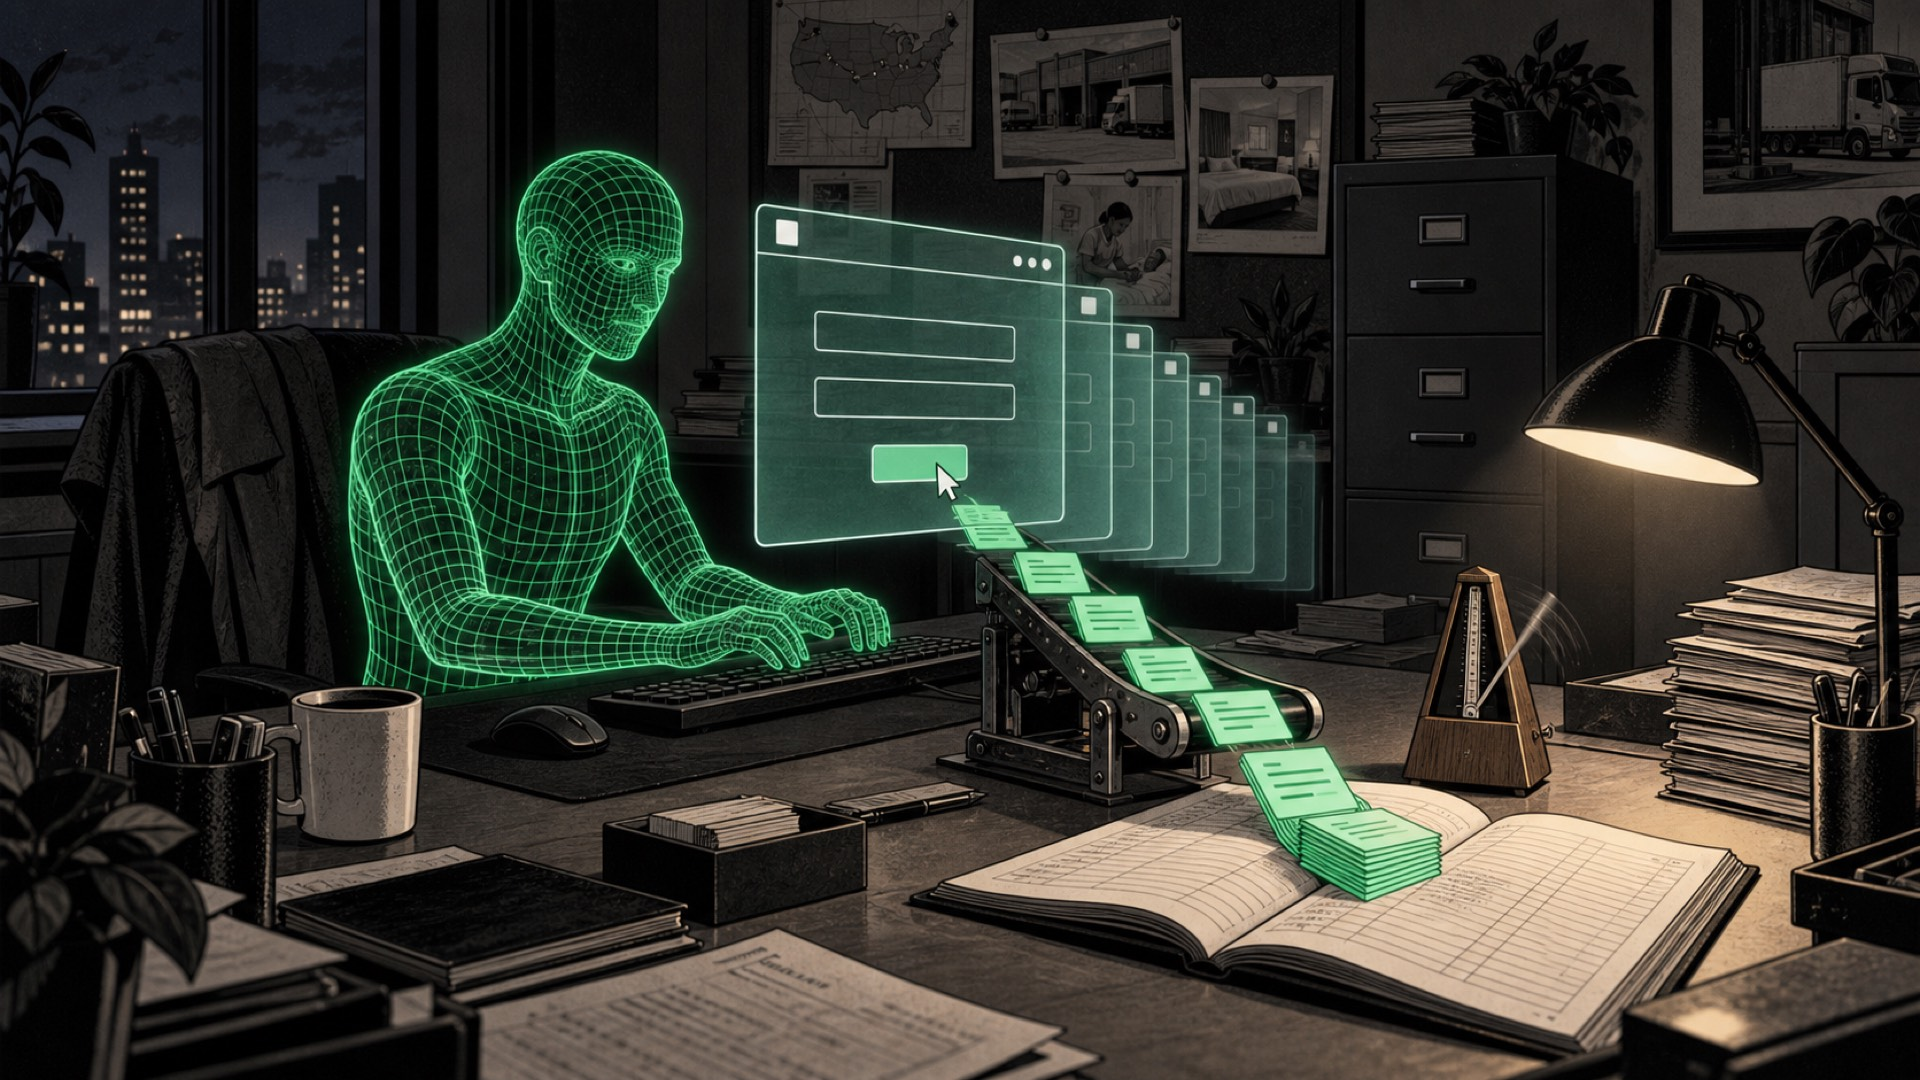
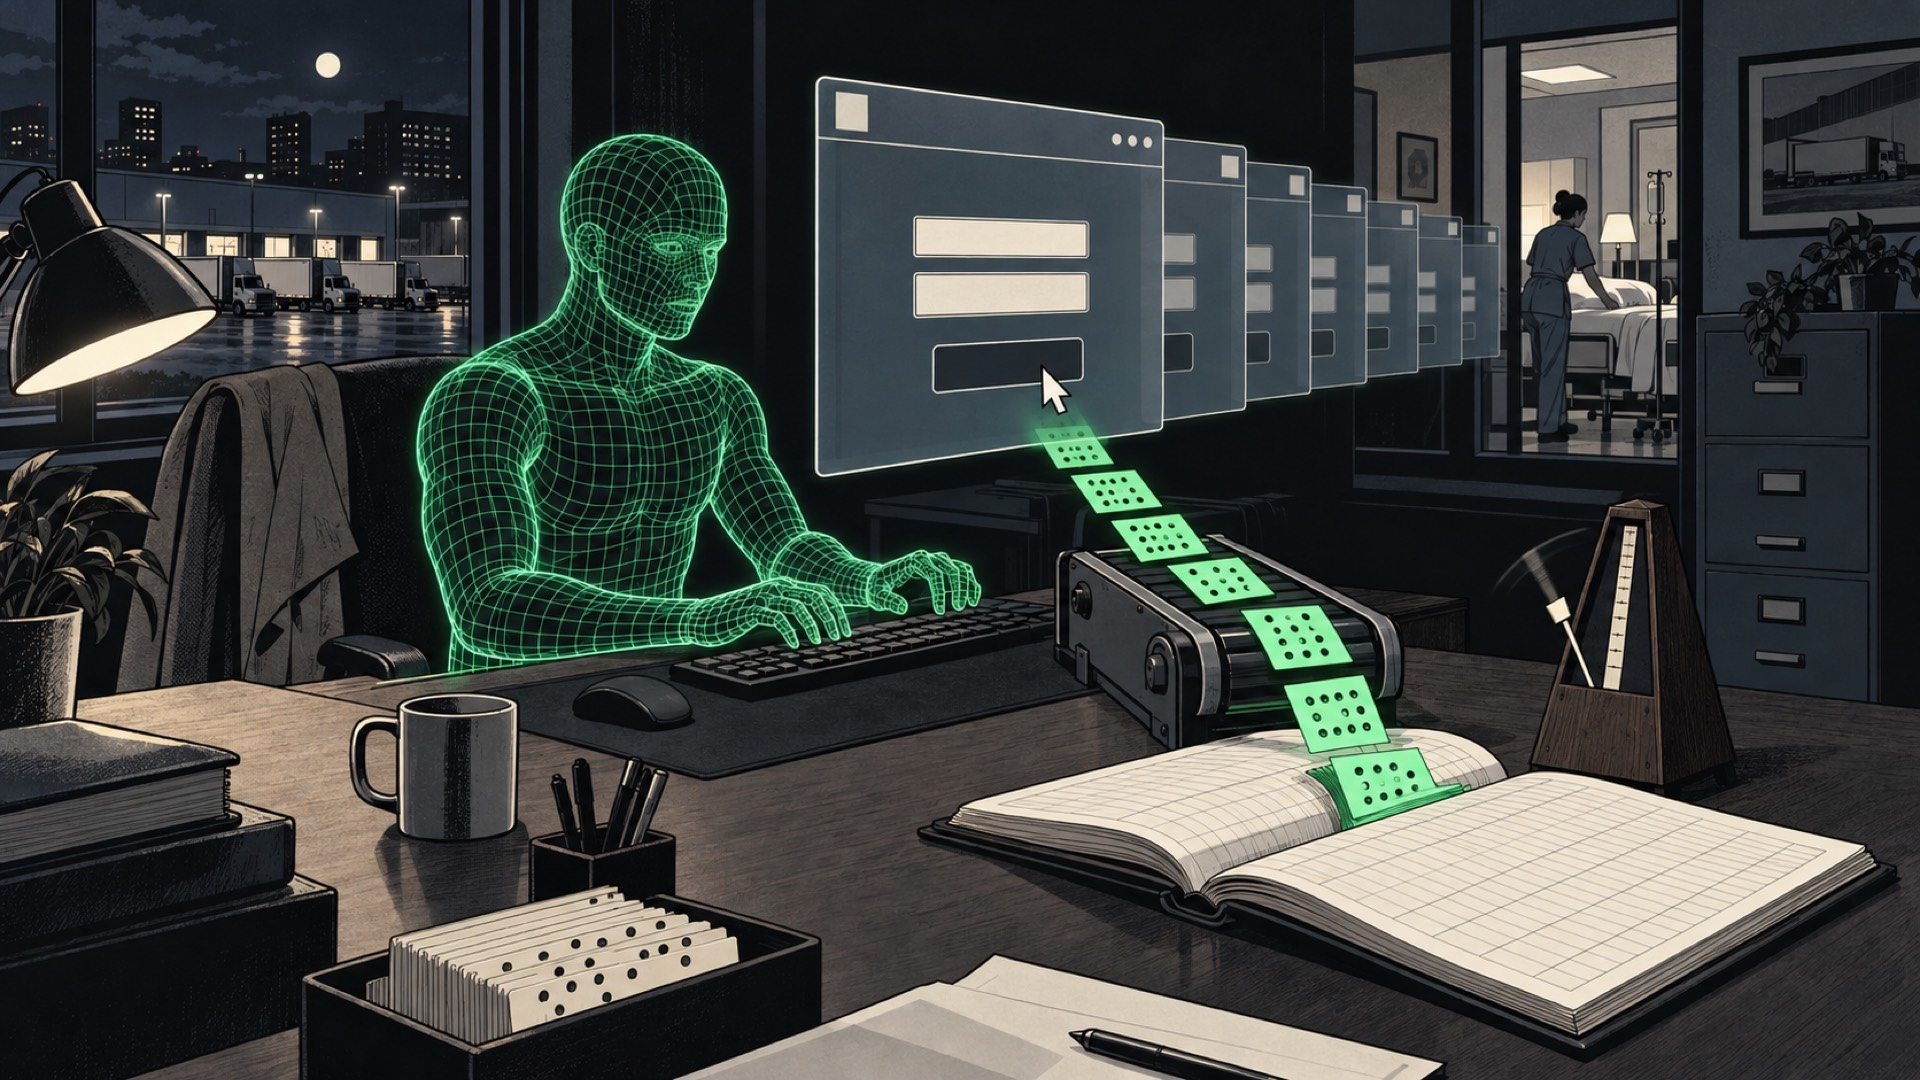
story: business story + six-beat product story (18 slides) — ingest, live location, SMS/phone timekeeping, rules, agentic mediation, agentic payroll upload
Claude-Session: https://claude.ai/code/session_01WeFBVZdtUQHxNr4TKy9Cv4

diff --git a/story/index.html b/story/index.html
@@ -10,12 +10,12 @@
   <link rel="preconnect" href="https://fonts.googleapis.com">
   <link rel="preconnect" href="https://fonts.gstatic.com" crossorigin>
   <link href="https://fonts.googleapis.com/css2?family=Space+Grotesk:wght@500;700&family=Inter:wght@400;500&display=swap" rel="stylesheet">
-  <link rel="stylesheet" href="deck.css?v=5">
+  <link rel="stylesheet" href="deck.css?v=6">
 </head>
 <body>
   <header class="chrome">
     <a class="brand" href="../"><img src="../logo-small.svg" alt="">HyperTrack</a>
-    <span class="counter"><span id="cur">01</span> / <span id="tot">21</span></span>
+    <span class="counter"><span id="cur">01</span> / <span id="tot">18</span></span>
   </header>
 
   <main class="deck" id="deck">
@@ -130,83 +130,56 @@
 
 
     <section class="slide">
-      <figure class="frame" data-label="13-two-questions"><img src="assets/13-two-questions.jpg" alt="A shift card between a pay envelope and a customer invoice"></figure>
-      <div class="copy">
-        <p class="eyebrow">13 · Payroll ops</p>
-        <h1>Every shift has to answer two questions.</h1>
-        <p>How much do I pay the worker? How much do I bill the customer? Every shift, every week, before the cutoff.</p>
-      </div>
-    </section>
-
-    <section class="slide">
-      <figure class="frame" data-label="14-three-clocks"><img src="assets/14-three-clocks.jpg" alt="Three panels: a badge kiosk, a phone clock-in, a GPS trail, each with a different time"></figure>
-      <div class="copy">
-        <p class="eyebrow">14 · Payroll ops</p>
-        <h1>The answer comes from three sources that disagree.</h1>
-        <p>The customer's clock or clipboard. The app the worker clocks in on. The phone's location. They arrive at different times and rarely say the same thing.</p>
-      </div>
-    </section>
-
-    <section class="slide">
       <figure class="frame" data-label="20-digital-worker"><img src="assets/20-digital-worker.jpg" alt="A wireframe digital worker logging into a holographic browser window, data flowing out on a cadence, more windows ghosted behind"><div class="logos"><img src="../logos/tiles/ukg.png" alt="ukg"><img src="../logos/tiles/adp.png" alt="adp"><img src="../logos/tiles/ubeya.png" alt="ubeya"><img src="../logos/tiles/7shifts.png" alt="7shifts"><img src="../logos/tiles/paylocity.png" alt="paylocity"><img src="../logos/tiles/deputy.png" alt="deputy"><img src="../logos/tiles/tempworks.png" alt="tempworks"><img src="../logos/tiles/avionte.png" alt="avionte"><img src="../logos/tiles/rippling.png" alt="rippling"><img src="../logos/tiles/wheniwork.png" alt="wheniwork"></div></figure>
       <div class="copy">
-        <p class="eyebrow">15 · Payroll ops</p>
-        <h1>Onboard it like a digital worker.</h1>
-        <p>It logs into UKG the way a person would, in a virtual browser, and pulls the punches out on a cadence. No integration project. Same for ADP, Ubeya, 7shifts, Paylocity and the rest.</p>
+        <p class="eyebrow">13 · Product</p>
+        <h1>Data auto-ingests, with AI.</h1>
+        <p>A digital worker logs into UKG, ADP, Ubeya, 7shifts or whatever your sites already run, in a virtual browser, and pulls punches and schedules out on a cadence. No integration project.</p>
       </div>
     </section>
 
     <section class="slide">
-      <figure class="frame" data-label="15-rulebook-in-heads"><img src="assets/15-rulebook-in-heads.jpg" alt="Payroll clerk surrounded by binders and sticky notes, reciting rules from memory"></figure>
+      <figure class="frame" data-label="22-live-map"><img src="assets/22-live-map.jpg" alt="Ops room wall map with geofenced facilities and live worker dots"></figure>
       <div class="copy">
-        <p class="eyebrow">16 · Payroll ops</p>
-        <h1>The rulebook lives in people's heads.</h1>
-        <p>State law, city ordinances, client contracts, facility quirks, this week's exceptions. Your best payroll person carries it all. When they leave, it leaves with them.</p>
+        <p class="eyebrow">14 · Product</p>
+        <h1>Location is tracked in real time.</h1>
+        <p>Every worker's phone reports where they actually are. Arrivals, departures and gaps show up on the map while the shift is happening, not at the end of the week.</p>
       </div>
     </section>
 
     <section class="slide">
-      <figure class="frame" data-label="16-compile"><img src="assets/16-compile.jpg" alt="Binders fed into a compiler machine that stamps a strip of shift cards"></figure>
+      <figure class="frame" data-label="23-paper-to-sms"><img src="assets/23-paper-to-sms.jpg" alt="Worker photographing a paper timesheet into a text; nurse taking a call from the agent"></figure>
       <div class="copy">
-        <p class="eyebrow">17 · Payroll ops</p>
-        <h1>Compile the rulebook once. Run it on every shift.</h1>
-        <p>Each rule is written in plain English, compiled once into a deterministic check, and applied to every shift before payroll runs. No prompting, no guessing.</p>
+        <p class="eyebrow">15 · Product</p>
+        <h1>Paper timesheets come in by text. Clock-ins by text and phone call.</h1>
+        <p>A photo of the clipboard is enough. When a punch is missing, the agent texts or calls the worker and takes the answer. No app to install, nothing for a clerk to key in.</p>
       </div>
     </section>
 
     <section class="slide">
       <figure class="frame" data-label="21-flag-to-formula"><img src="assets/21-flag-to-formula.jpg" alt="Three panels: a flagged shift card, a highlighted clause in a wage order, and the compiled rule on a chalkboard"></figure>
       <div class="copy">
-        <p class="eyebrow">18 · Payroll ops</p>
-        <h1>Every flag traces to a clause. Every clause becomes a rule.</h1>
-        <p>The agent raises the flag. The flag points at one paragraph in the wage order. That paragraph is compiled into one line the engine runs on every shift.</p>
+        <p class="eyebrow">16 · Product</p>
+        <h1>Payroll rules are applied to every shift.</h1>
+        <p>The agent raises the flag. The flag points at one paragraph in the wage order or the client contract. That paragraph is compiled into one line the engine runs on every shift.</p>
       </div>
     </section>
 
     <section class="slide">
       <figure class="frame" data-label="17-agent-conversation"><img src="assets/17-agent-conversation.jpg" alt="Worker on a loading dock answering a text while a flagged shift resolves"></figure>
       <div class="copy">
-        <p class="eyebrow">19 · Payroll ops</p>
-        <h1>The agent asks the worker, not the clerk.</h1>
-        <p>When a shift is missing a fact, the agent texts the person who has it while it is still fresh. The exception closes before anyone in the middle office sees it.</p>
+        <p class="eyebrow">17 · Product</p>
+        <h1>Discrepancies are mediated agentically.</h1>
+        <p>A disputed break, an extra hour, a missing clock-out. The agent takes it to the worker and the supervisor while it is fresh, collects the answers and closes it out with the evidence attached.</p>
       </div>
     </section>
 
     <section class="slide">
-      <figure class="frame" data-label="18-human-queue"><img src="assets/18-human-queue.jpg" alt="Calm ops desk with three shift cards and a recycling bin full of paper timesheets"></figure>
+      <figure class="frame" data-label="24-upload"><img src="assets/24-upload.jpg" alt="The wireframe digital worker feeding stamped shift cards into a holographic payroll window at dawn"><div class="logos"><img src="../logos/tiles/adp.png" alt="adp"><img src="../logos/tiles/paylocity.png" alt="paylocity"><img src="../logos/tiles/gusto.png" alt="gusto"><img src="../logos/tiles/paychex.png" alt="paychex"><img src="../logos/tiles/rippling.png" alt="rippling"><img src="../logos/tiles/quickbooks.png" alt="quickbooks"></div></figure>
       <div class="copy">
-        <p class="eyebrow">20 · Payroll ops</p>
-        <h1>Humans handle only what needs a human.</h1>
-        <p>Clean shifts go out on time. Flagged ones arrive with the rule, the evidence and the dollar delta already attached.</p>
-      </div>
-    </section>
-
-    <section class="slide">
-      <figure class="frame" data-label="19-receipt"><img src="assets/19-receipt.jpg" alt="Evidence board with a pay stub connected by string to clock, map, clause and messages"></figure>
-      <div class="copy">
-        <p class="eyebrow">21 · The end state</p>
-        <h1>Every decision shows its work.</h1>
-        <p>Clock, location, clause, conversation, approval. Pinned to every payout and every invoice line. Pay right the first cycle, and the flywheel turns the right way.</p>
+        <p class="eyebrow">18 · Product</p>
+        <h1>Then it goes to payroll. As fast as possible, agentically.</h1>
+        <p>The same digital worker logs into ADP, Paylocity or Gusto and uploads the approved hours through the browser the moment the cycle closes. Held shifts wait with their reason. Everyone else gets paid right, on time.</p>
       </div>
     </section>
 
@@ -216,6 +189,6 @@
     <button type="button" id="prev" aria-label="Previous">←</button>
     <button type="button" id="next" aria-label="Next">→</button>
   </nav>
-  <script src="deck.js?v=5"></script>
+  <script src="deck.js?v=6"></script>
 </body>
 </html>

diff --git a/story/STORYBOARD.md b/story/STORYBOARD.md
@@ -74,3 +74,14 @@ Night in a quiet operations office, one desk lamp, a real keyboard and mouse on 
 
 ### 21 · flag-to-formula — "Every flag traces to a clause, and every clause becomes a rule."
 One frame split into three vertical panels like a comic strip, read left to right. Panel one: a single shift card on a desk with a small mailbox-style flag raised on its corner, a translucent green wireframe hand has just lifted the flag; a coffee mug and a pen nearby. Panel two: a thick legal document, a wage order, lying open under a magnifying glass; one paragraph is marked with a broad green highlighter stroke, the rest of the page is dense blurred text-texture that is not legible. Panel three: a dark chalkboard on an office wall with one short compiled rule written neatly in white chalk in a clean monospace hand, exactly this and nothing else: "IF hours > 5 AND meal < 30min → +1h premium". A hand holding chalk finishes the last character. The chalkboard rule and the highlighter stroke are the only green in the frame. Text is allowed ONLY on the chalkboard; nowhere else.
+
+## Product story (six beats after the business story)
+
+### 22 · live-map — "Location is tracked in real time."
+An operations room at dawn. The whole back wall is one large dark screen showing a metro-region map drawn as a precise technical overlay: roads as thin lines, five facility footprints each ringed by a glowing geofence circle with tick marks. Small worker dots sit inside the rings or approach them along short motion trails; one dot just outside a ring carries a tiny raised flag. In the foreground an ops person with a coffee glances up at the wall from a desk with two monitors and a phone showing a single location pin. Blinds, morning light, plants. Only the geofence rings, the worker dots and the trails are green.
+
+### 23 · paper-to-sms — "Paper timesheets come in by text. Clock-ins by text and phone call."
+One frame split into two panels. Left panel: a warehouse worker at a break-room table photographs a paper timesheet on a clipboard with her phone; the image of the sheet lifts off the paper as a glowing translucent card rising into an abstract text-message bubble above the phone, no words. Vending machine, lockers, a microwave behind her. Right panel: a nurse in scrubs in a hospital corridor answers a phone call; hovering above the phone is a small translucent green wireframe figure, the agent on the line, with an abstract speech bubble holding a check mark; beside it an abstract text thread of two blank bubbles. Only the lifted timesheet card, the wireframe agent and the check mark are green.
+
+### 24 · upload — "Then it goes to payroll. As fast as possible, agentically."
+The same operations office as the digital-worker frame, now at dawn with light coming through the window. The translucent green wireframe digital worker sits at the real keyboard again, but this time a conveyor carries a neat stack of stamped shift cards from a closed ledger on the desk INTO a large holographic browser window that shows an abstract payroll table: blank rows and columns, one button, no words. A second ghosted window waits behind it. A stopwatch stands on the desk beside the ledger, its needle sweeping. The clerk's chair beside it is empty with a coat still on it. Only the wireframe figure, the cards on the conveyor and the button are green.

diff --git a/story/README.md b/story/README.md
@@ -1,6 +1,6 @@
 # Protect your revenue — middle-office storyboard deck
 
-Twenty-one slides, all illustrated storyboard frames in one language. No UI screenshots, no close slide. Narrative: tech-enabled staffing firms deploy AI faster; AI has done recruiting and matching, the middle office (pay and bill) is next; workers and customers both re-choose you every day, so pay accuracy is revenue protection (frames 01–12). Then the payroll-ops AI story: two questions per shift, three sources that disagree, the rulebook in people's heads, compile it once, the agent asks the worker, humans handle only what needs a human, every decision shows its work (frames 13–19). The product is abstracted into the same language: onboarding a system like a digital worker (virtual browser login, data pulled on a cadence, real vendor tiles from `logos/tiles/` overlaid), and flag → clause → compiled rule as one triptych. It ends on "every decision shows its work."
+Eighteen slides, all illustrated storyboard frames in one language. No UI screenshots, no close slide. Narrative: tech-enabled staffing firms deploy AI faster; AI has done recruiting and matching, the middle office (pay and bill) is next; workers and customers both re-choose you every day, so pay accuracy is revenue protection (frames 01–12). Then the product story in six beats (slides 13–18): data auto-ingests with a digital worker in a virtual browser (real vendor tiles from `logos/tiles/` overlaid), location tracked in real time, paper timesheets and clock-ins by SMS and phone call, payroll rules applied (flag → clause → compiled rule), discrepancies mediated agentically, then uploaded to payroll agentically through the browser. 
 
 Live at https://closeoutcopilot.com/story/. Locally, serve from the repo root so the shared logo and hero sprites load:
 
@@ -12,5 +12,5 @@ Open http://127.0.0.1:4177/story/ — keys: arrows / space / backspace, Home / E
 
 ## Images
 
-All twenty-one illustrated frames were generated with the Codex CLI built-in image generation tool (session driven by `gpt-6-astra`, reasoning effort ultra) from `STORYBOARD.md`, one shared STYLE block plus a per-frame SCENE. Originals in `assets/raw/*.png` (see `assets/raw/manifest.md` for the `~/.codex/generated_images` provenance); deck copies are 1920-wide JPEGs at quality 70 in `assets/`.
+All frames were generated with the Codex CLI built-in image generation tool (session driven by `gpt-6-astra`, reasoning effort ultra) from `STORYBOARD.md`, one shared STYLE block plus a per-frame SCENE. Originals in `assets/raw/*.png` (see `assets/raw/manifest.md` for the `~/.codex/generated_images` provenance); deck copies are 1920-wide JPEGs at quality 70 in `assets/`.
 

diff --git a/story/assets/raw/manifest.md b/story/assets/raw/manifest.md
@@ -20,3 +20,7 @@
 17-agent-conversation.png | /Users/vibes/.codex/generated_images/01a0916b-167c-7d60-86e1-7c1c095ccdbf/exec-7d2fbcea-b30c-4a50-a4be-2a5bb958e7f2.png | retried once: letter-like marks in first attempt; strengthened no text of any kind; second attempt accepted
 18-human-queue.png | /Users/vibes/.codex/generated_images/01a0916b-167c-7772-b7bd-ccc5ca735077/exec-d255c8c6-7f33-4f83-8849-926cc55b6544.png | retried once for readable clock numerals; strengthened no text of any kind; accepted second attempt
 19-receipt.png | /Users/vibes/.codex/generated_images/01a0916b-167c-76c2-be78-06783d446bfe/exec-6ebe9530-bd63-4d8a-9df3-fdc35636d1a3.png | regenerated once with strengthened no text of any kind after lettering appeared on the first attempt; second attempt accepted
+21-flag-to-formula.png | /Users/vibes/.codex/generated_images/01a091a1-83ea-7760-818c-294fa8b16c2b/exec-90246896-553f-424f-9007-b698041a0bdc.png | regenerated once for stray lettering outside chalkboard; strengthened text constraints; second attempt accepted
+20-digital-worker.png | /Users/vibes/.codex/generated_images/01a091a1-83ea-7a50-b440-6a366cd8112c/exec-6a27435f-efca-4688-a590-d102a2639e7f.png | retried once for stray writing on papers and ledger; strengthened no-text and ink-and-cel constraints; second attempt accepted
+22-live-map.png | /Users/vibes/.codex/generated_images/01a091a8-d66d-7b42-b6ab-823ad718fcd0/exec-f7efd910-0e7f-40ce-acf0-188fc5a705be.png | retry once: strengthened no text of any kind after monitor labels and branding marks; accepted second attempt
+24-upload.png | /Users/vibes/.codex/generated_images/01a091a8-d66d-7de2-ab0a-6b6a3fc37281/exec-e6322aaf-d859-42ce-aa85-99e9de19a686.png | retry once: stopwatch numerals and faint table labels in first attempt; strengthened no text of any kind; accepted second attempt

diff --git a/story/assets/raw/last-22.md b/story/assets/raw/last-22.md
@@ -1,0 +1,1 @@
+FRAME 22 DONE

diff --git a/story/assets/raw/last-24.md b/story/assets/raw/last-24.md
@@ -1,0 +1,1 @@
+FRAME 24 DONE
